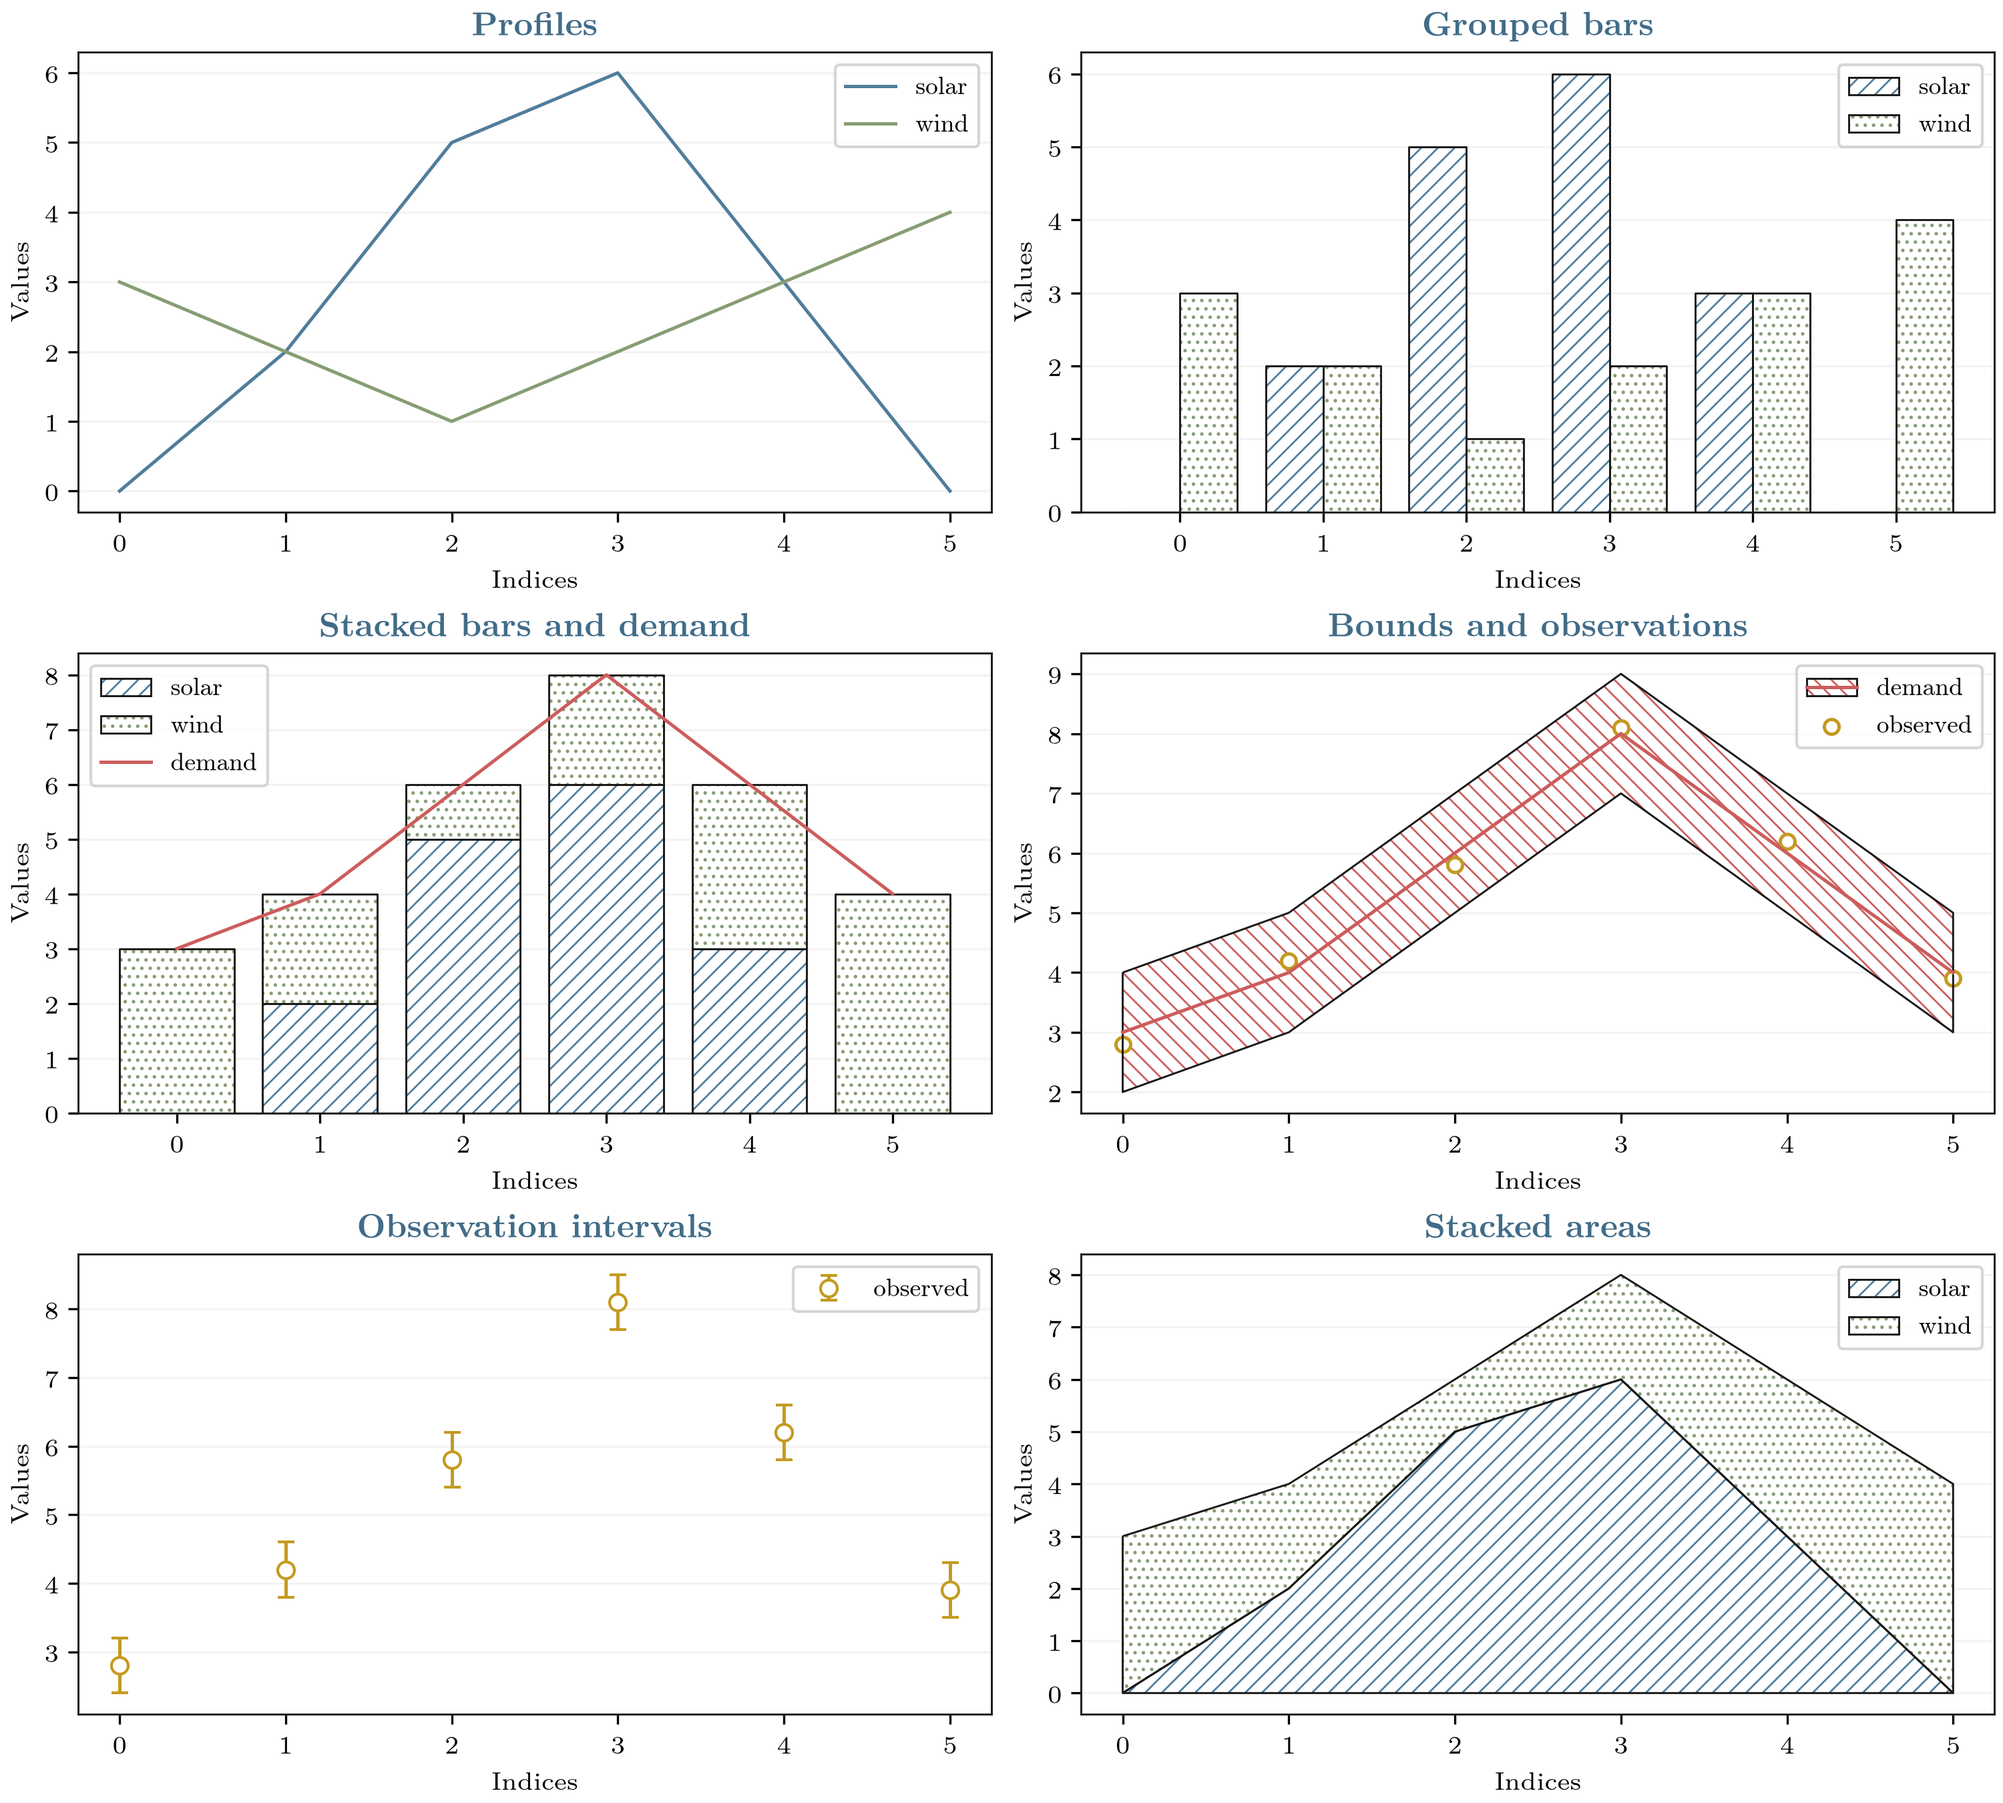
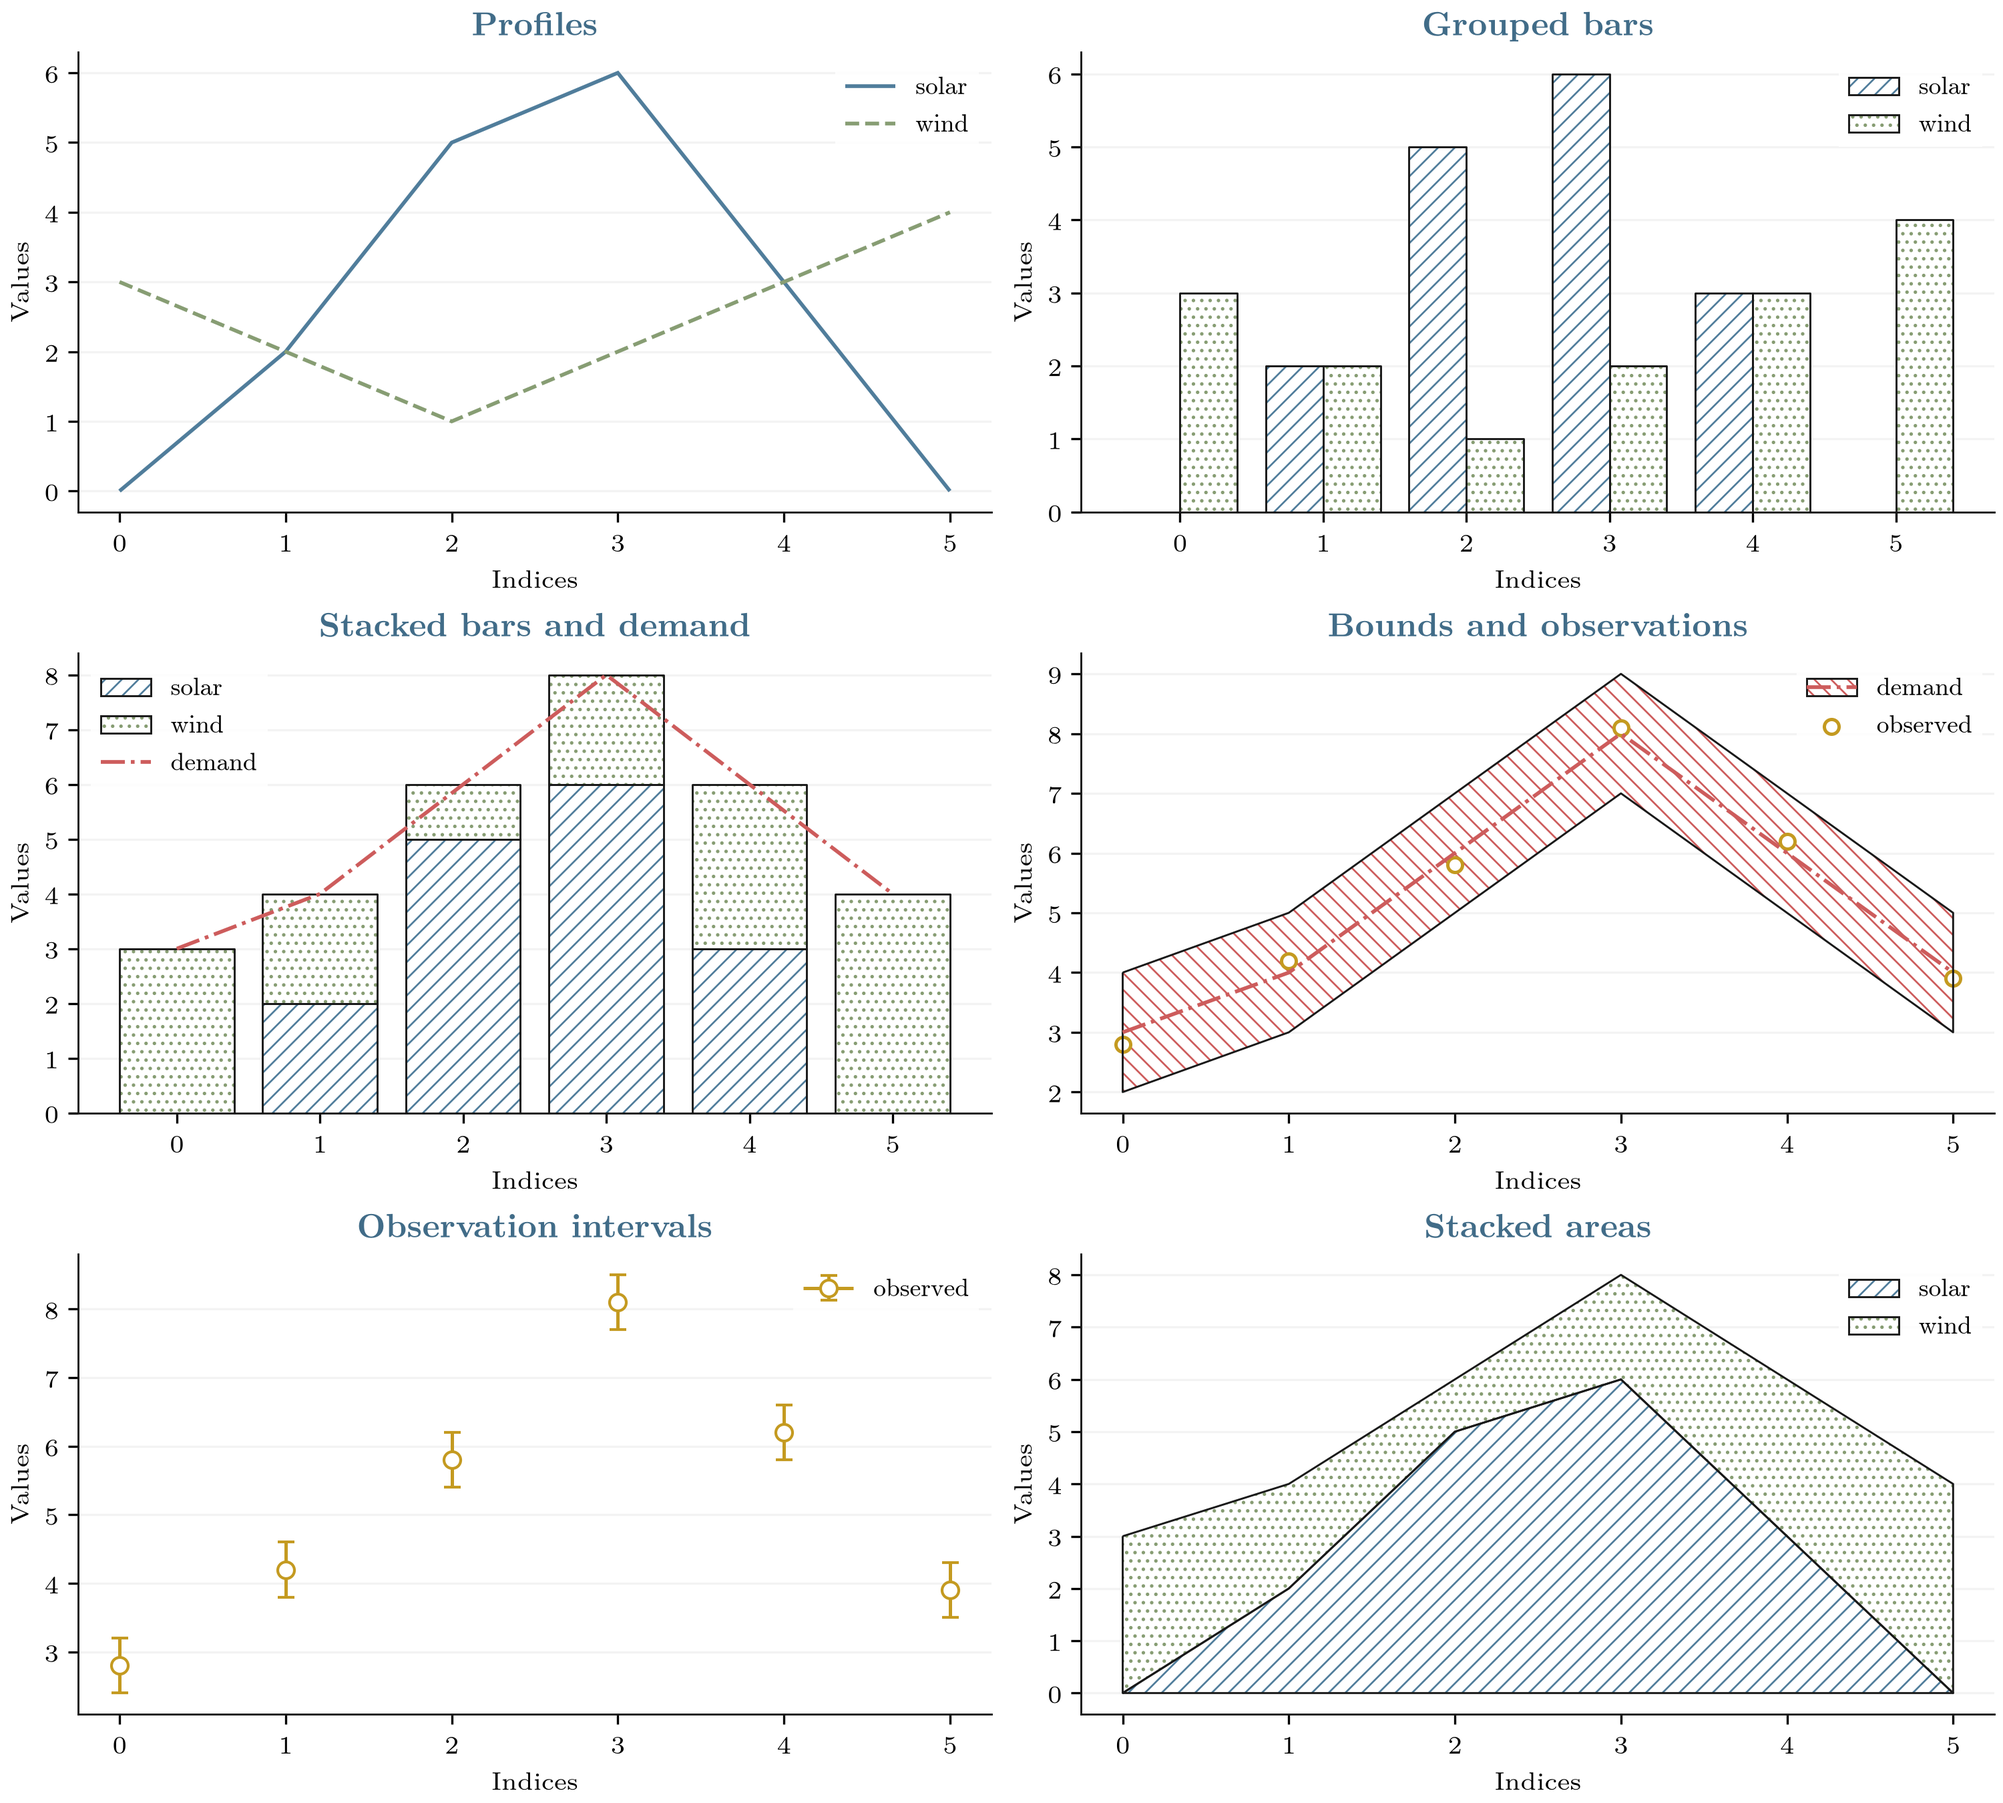
Refine plot frames, legend keys and grayscale line styles

diff --git a/src/gana/plotting/theme.py b/src/gana/plotting/theme.py
@@ -2,9 +2,11 @@
 
 import json
 from contextlib import contextmanager
+from copy import copy
 from pathlib import Path
 
 from matplotlib import rc_context, rcParams
+from matplotlib.container import ErrorbarContainer
 from matplotlib.font_manager import FontProperties, fontManager
 from matplotlib.legend_handler import HandlerTuple
 from matplotlib.patches import Rectangle
@@ -16,6 +18,7 @@ COLORS = tuple(
     TOKENS["palette"][key] for key in TOKENS["series"]["color_order"]
 )
 HATCHES = tuple(TOKENS["series"]["hatches"])
+LINESTYLES = tuple(TOKENS["series"]["linestyles"])
 INK = TOKENS["palette"]["ink"]
 
 
@@ -44,6 +47,7 @@ def style_context(profile="computer", overrides=None):
         "savefig.dpi": preset["dpi"],
         "svg.fonttype": "path",
     }
+    settings.update(TOKENS["graph_rc"])
     settings.update(overrides or {})
     with rc_context():
         rcParams.update(settings)
@@ -69,7 +73,8 @@ def pattern_key(color, hatch):
 def legend(ax, handles, labels):
     """Retain first-seen labels, with boxed keys for patterned quantities."""
     unique: dict = {}
-    for label, handle in zip(labels, handles):
+    for label, original in zip(labels, handles):
+        handle = _legend_handle(original)
         if label in unique:
             previous = unique[label]
             first = previous if isinstance(previous, tuple) else (previous,)
@@ -83,3 +88,17 @@ def legend(ax, handles, labels):
             list(unique),
             handler_map={tuple: HandlerTuple(ndivide=1, pad=0)},
         )
+
+
+def _legend_handle(handle):
+    """Give interval keys a visible path without connecting observations."""
+    if isinstance(handle, ErrorbarContainer) and handle.lines[0] is not None:
+        line = copy(handle.lines[0])
+        if line.get_linestyle() == "None":
+            line.set_linestyle("-")
+        return ErrorbarContainer(
+            (line, *handle.lines[1:]),
+            has_xerr=handle.has_xerr,
+            has_yerr=handle.has_yerr,
+        )
+    return handle

diff --git a/tests/plotting_theme_test.py b/tests/plotting_theme_test.py
@@ -1,0 +1,44 @@
+"""Category identities and interval keys survive changes in presentation."""
+
+from matplotlib import pyplot as plt
+from matplotlib.lines import Line2D
+
+from gana import plotting
+
+
+def test_line_identity_survives_panel_subsets_and_explicit_overrides():
+    solar, wind = [0, 3, 1], [2, 1, 2]
+    combined = plotting.line(solar) + plotting.line(wind)
+    layout = plotting.row(combined, plotting.line(wind))
+    result = layout.render()
+    try:
+        first, second = result.axes[0].lines
+        repeated = result.axes[1].lines[0]
+        assert first.get_linestyle() != second.get_linestyle()
+        assert second.get_linestyle() == repeated.get_linestyle()
+        assert second.get_color() == repeated.get_color()
+    finally:
+        plt.close(result.figure)
+    explicit = plotting.line(wind, linestyle=":", linewidth=2).render()
+    try:
+        assert explicit.axes[0].lines[0].get_linestyle() == ":"
+        assert explicit.axes[0].lines[0].get_linewidth() == 2
+    finally:
+        plt.close(explicit.figure)
+
+
+def test_interval_key_path_does_not_connect_observations():
+    plot = plotting.errorbar([1, 3, 2], yerr=0.4, color="gold", label="Data")
+    result = plot.render()
+    try:
+        axis = result.axes[0]
+        data_line, _, intervals = axis.containers[0].lines
+        assert data_line.get_linestyle() == "None"
+        assert len(intervals[0].get_segments()) == 3
+        keys = axis.get_legend().findobj(Line2D)
+        assert any(
+            key.get_linestyle() == "-" and key.get_color() == "gold"
+            for key in keys
+        )
+    finally:
+        plt.close(result.figure)

diff --git a/src/gana/plotting/render.py b/src/gana/plotting/render.py
@@ -5,9 +5,10 @@ Matplotlib artists consume the same detached profiles for every entry point.
 from collections import Counter
 
 import numpy as np
+from matplotlib import rcParams
 from matplotlib.collections import LineCollection
 
-from .theme import COLORS, HATCHES, INK, legend, pattern_key
+from .theme import COLORS, HATCHES, INK, LINESTYLES, legend, pattern_key
 
 
 def render_panel(ax, layers, panel, settings, colors):
@@ -24,6 +25,7 @@ def render_panel(ax, layers, panel, settings, colors):
         style = dict(layer.options)
         style.setdefault("color", COLORS[number % len(COLORS)])
         style.setdefault("hatch", HATCHES[number % len(HATCHES)])
+        style.setdefault("linestyle", LINESTYLES[number % len(LINESTYLES)])
         group = _group(layer)
         style["offset"] = positions[group]
         style["count"] = counts[group]
@@ -66,7 +68,7 @@ def _draw(ax, chart, series, style, stacks, group):
             x,
             y,
             color=color,
-            linewidth=width,
+            linewidth=style.get("linewidth", rcParams["lines.linewidth"]),
             linestyle=style.get("linestyle", "-"),
             marker=style.get("marker"),
             drawstyle=drawstyle,
@@ -187,6 +189,8 @@ def _area(ax, chart, series, y, style, stacks, group):
 
 
 def _decorate(ax, entries, settings):
+    ax.spines["top"].set_visible(rcParams["axes.spines.top"])
+    ax.spines["right"].set_visible(rcParams["axes.spines.right"])
     first = entries[0][1] if entries else None
     title = settings.get("title", "")
     if first is not None and first.panel_label:

diff --git a/docs/tutorials/plotting.rst b/docs/tutorials/plotting.rst
@@ -125,7 +125,14 @@ neutral outlines and boxed pattern keys. Profiles ``print``, ``computer``
 (the default) and ``slides`` set typography and export resolution. The assets
 are bundled and rendering does not fetch theme settings or fonts online.
 
-``color``, ``hatch``, ``linewidth``, ``marker`` and chart-specific options apply
+Top and right spines are hidden. Legends have a borderless white background
+with slight transparency; only filled/patterned keys have individual boxes.
+Line series cycle through solid, dashed, dash-dot and dotted styles as well
+as colours, preserving identities across panels. For more than four line
+series, use explicit markers, labels or separate panels. Interval keys show
+a short path with their marker and caps without connecting the observations.
+
+``color``, ``hatch``, ``linestyle``, ``linewidth``, ``marker`` and chart options apply
 to the quantities supplied in that call. Independently styled calls can be
 combined with ``+``. Category styles are resolved across the combined figure,
 including its panels. Figure settings include ``title``, ``xlabel``, ``ylabel``,

diff --git a/CHANGELOG.md b/CHANGELOG.md
@@ -13,6 +13,7 @@ and this project adheres to [Semantic Versioning](https://semver.org/spec/v2.0.0
 - Preserve index identities with right-to-left axis defaults and default-on `gana.plotting.CHECK_INDICES` validation. Select variable histories explicitly with `n_sol`.
 
 ### Changed
+- Use open top/right axes, borderless translucent legends and distinct line styles for grayscale readability. Patterned keys retain their individual boxes; interval keys show a path without connecting the observations.
 - Element `line()` and `bar()` return plot descriptions for explicit `.show()` or `.render()` calls. Legacy `draw()` entry points retain immediate rendering through the common renderer, without resetting global Matplotlib settings.
 
 ## [1.5.0] - 2026-11-20
